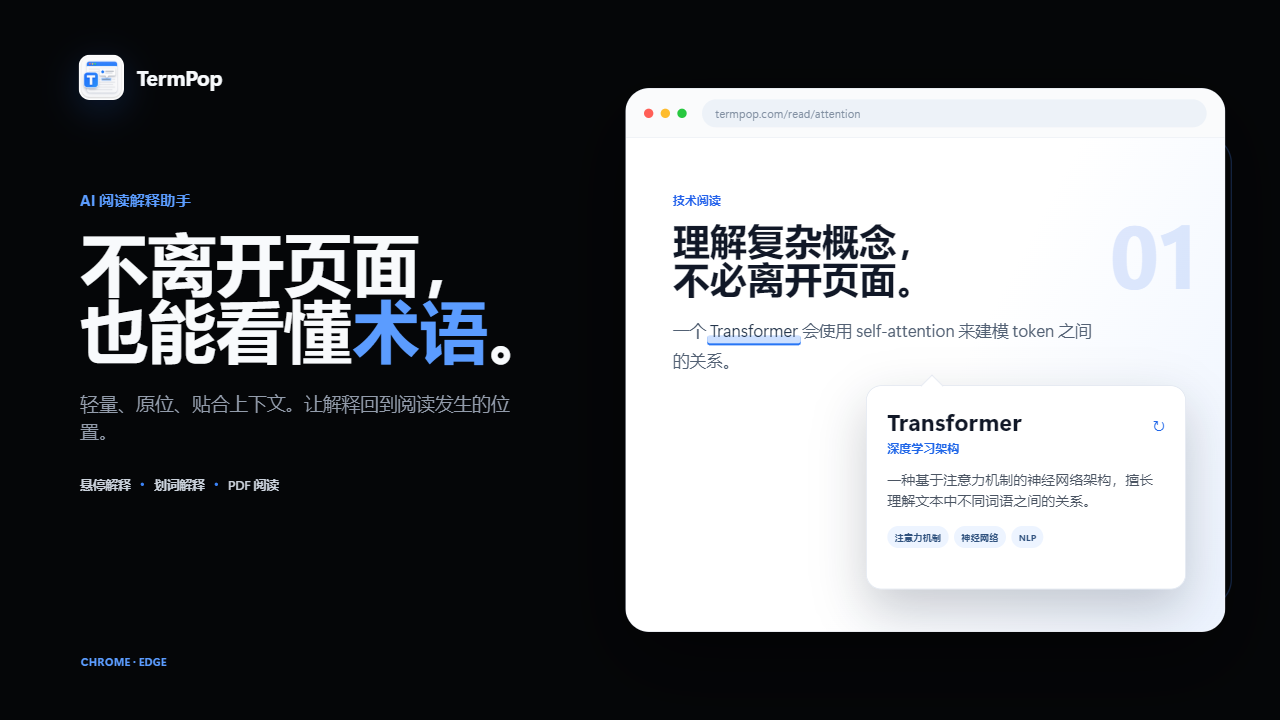
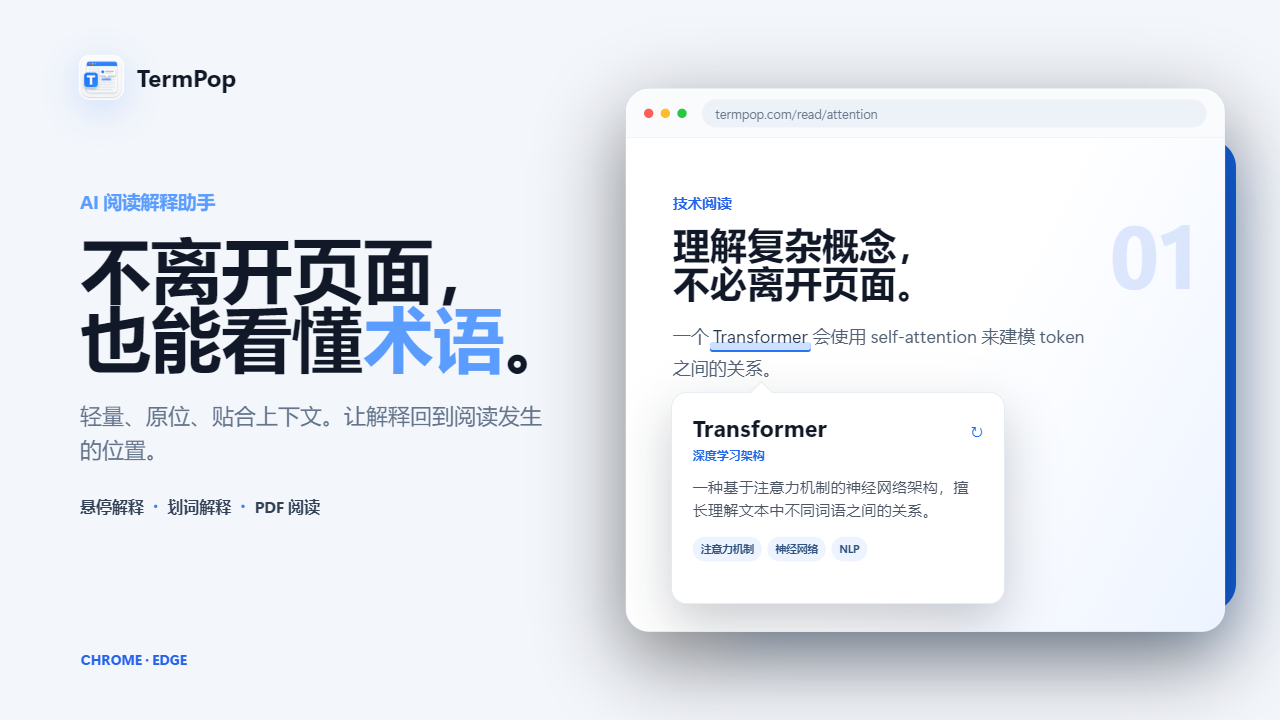
fix(marketing): brighten promo cover and align popover

diff --git a/scripts/termpop-promo-cover.html b/scripts/termpop-promo-cover.html
@@ -7,20 +7,20 @@
     <style>
       :root {
         font-family: "Segoe UI Variable Display", "Segoe UI", "Microsoft YaHei UI", sans-serif;
-        color: #f8fafc;
+        color: #111827;
         font-synthesis: none;
       }
 
       * { box-sizing: border-box; }
       html, body { margin: 0; width: 1920px; height: 1080px; overflow: hidden; }
-      body { background: #050608; }
+      body { background: #f3f6fb; }
 
       .cover {
         position: relative;
         width: 1920px;
         height: 1080px;
         overflow: hidden;
-        background: #050608;
+        background: #f3f6fb;
       }
 
       .brand {
@@ -42,7 +42,8 @@
       }
 
       .brand span {
-        font-size: 31px;
+        color: #111827;
+        font-size: 36px;
         font-weight: 700;
       }
 
@@ -56,13 +57,14 @@
 
       .eyebrow {
         color: #5b9cff;
-        font-size: 23px;
+        font-size: 28px;
         font-weight: 720;
       }
 
       h1 {
         margin: 28px 0 0;
-        font-size: 102px;
+        color: #111827;
+        font-size: 106px;
         font-weight: 770;
         line-height: .98;
         letter-spacing: 0;
@@ -72,10 +74,10 @@
       h1 em { color: #5b9cff; font-style: normal; }
 
       .subtitle {
-        width: 690px;
+        width: 720px;
         margin: 40px 0 0;
-        color: #939cab;
-        font-size: 28px;
+        color: #64748b;
+        font-size: 33px;
         line-height: 1.55;
       }
 
@@ -84,9 +86,9 @@
         align-items: center;
         gap: 15px;
         margin-top: 44px;
-        color: #cbd2dc;
-        font-size: 19px;
-        font-weight: 620;
+        color: #334155;
+        font-size: 24px;
+        font-weight: 660;
       }
 
       .feature-line i {
@@ -111,9 +113,11 @@
         right: 20px;
         width: 763px;
         height: 708px;
-        border: 2px solid rgba(72, 139, 255, .28);
+        border: 0;
         border-radius: 42px;
-        transform: translate(30px, 30px);
+        background: #1266e9;
+        box-shadow: 0 35px 80px rgba(18, 102, 233, .25);
+        transform: translate(36px, 36px);
       }
 
       .browser {
@@ -147,8 +151,8 @@
         flex: 1;
         border-radius: 999px;
         background: #edf2f8;
-        color: #8290a2;
-        font-size: 17px;
+        color: #68778b;
+        font-size: 19px;
         line-height: 42px;
         padding: 0 20px;
       }
@@ -161,7 +165,7 @@
         background: linear-gradient(118deg, #fff 0%, #fff 53%, #edf4ff 100%);
       }
 
-      .kicker { color: #2563eb; font-size: 18px; font-weight: 730; }
+      .kicker { color: #2563eb; font-size: 22px; font-weight: 730; }
 
       .article-title {
         width: 620px;
@@ -175,7 +179,7 @@
         width: 650px;
         margin: 0;
         color: #536174;
-        font-size: 25px;
+        font-size: 27px;
         line-height: 1.75;
       }
 
@@ -202,10 +206,11 @@
 
       .popover {
         position: absolute;
-        right: 58px;
-        bottom: 63px;
-        width: 480px;
-        min-height: 306px;
+        left: 68px;
+        right: auto;
+        bottom: 41px;
+        width: 500px;
+        min-height: 318px;
         padding: 29px 31px 27px;
         border: 1px solid #dce3ed;
         border-radius: 23px;
@@ -215,7 +220,7 @@
 
       .popover::after {
         position: absolute;
-        left: 86px;
+        left: var(--arrow-left, 117px);
         top: -12px;
         width: 23px;
         height: 23px;
@@ -235,9 +240,9 @@
       .popover-title { font-size: 35px; font-weight: 770; }
       .refresh { color: #2167e8; font-size: 23px; }
       .popover-type { margin-top: 6px; color: #2167e8; font-size: 18px; font-weight: 690; }
-      .popover-copy { margin: 18px 0 22px; color: #4b5563; font-size: 21px; line-height: 1.52; }
+      .popover-copy { margin: 18px 0 22px; color: #4b5563; font-size: 23px; line-height: 1.52; }
       .popover-tags { display: flex; gap: 8px; }
-      .popover-tags span { padding: 7px 11px; border-radius: 999px; background: #edf4ff; color: #31537f; font-size: 14px; font-weight: 650; }
+      .popover-tags span { padding: 8px 12px; border-radius: 999px; background: #edf4ff; color: #31537f; font-size: 16px; font-weight: 650; }
 
       .product-label {
         position: absolute;
@@ -253,8 +258,8 @@
         position: absolute;
         left: 121px;
         bottom: 77px;
-        color: #5b9cff;
-        font-size: 17px;
+        color: #2563eb;
+        font-size: 21px;
         font-weight: 700;
       }
     </style>
@@ -297,5 +302,19 @@
 
       <div class="footer-mark">CHROME · EDGE</div>
     </main>
+    <script>
+      const term = document.querySelector(".term");
+      const popover = document.querySelector(".popover");
+      const alignArrow = () => {
+        const termRect = term.getBoundingClientRect();
+        const cardRect = popover.getBoundingClientRect();
+        const arrowSize = 23;
+        const centered = termRect.left + termRect.width / 2 - cardRect.left - arrowSize / 2;
+        const clamped = Math.max(34, Math.min(cardRect.width - 57, centered));
+        popover.style.setProperty("--arrow-left", `${clamped}px`);
+      };
+      document.fonts.ready.then(alignArrow);
+      window.addEventListener("load", alignArrow);
+    </script>
   </body>
 </html>
